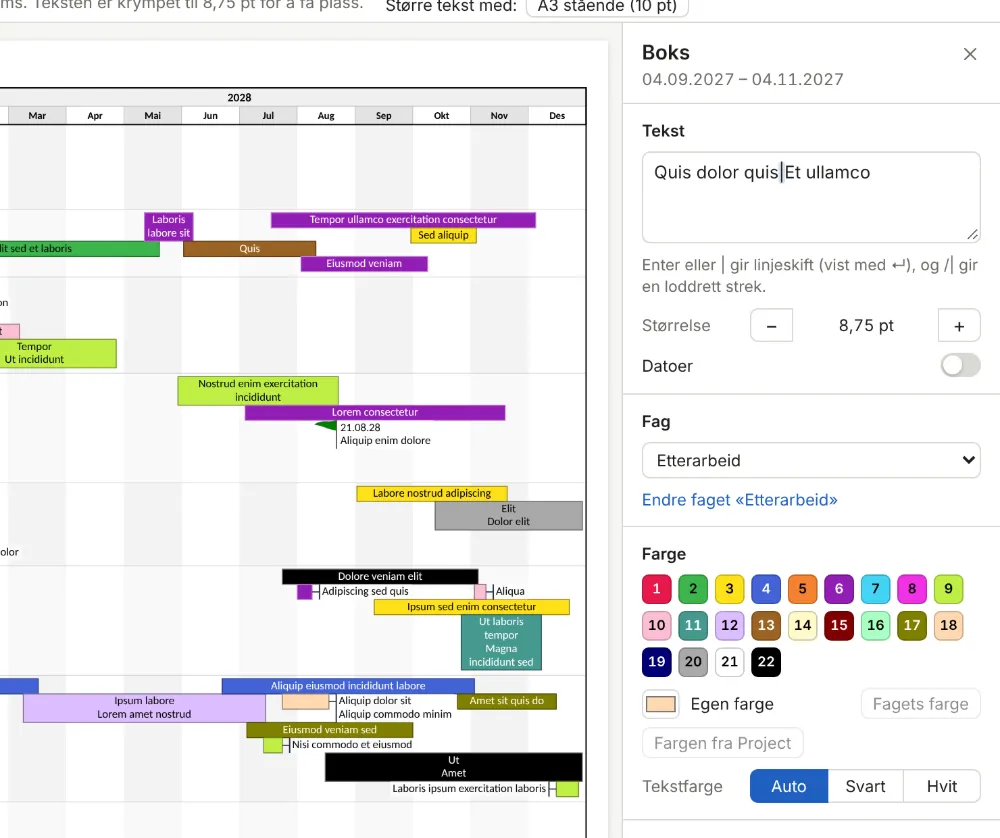
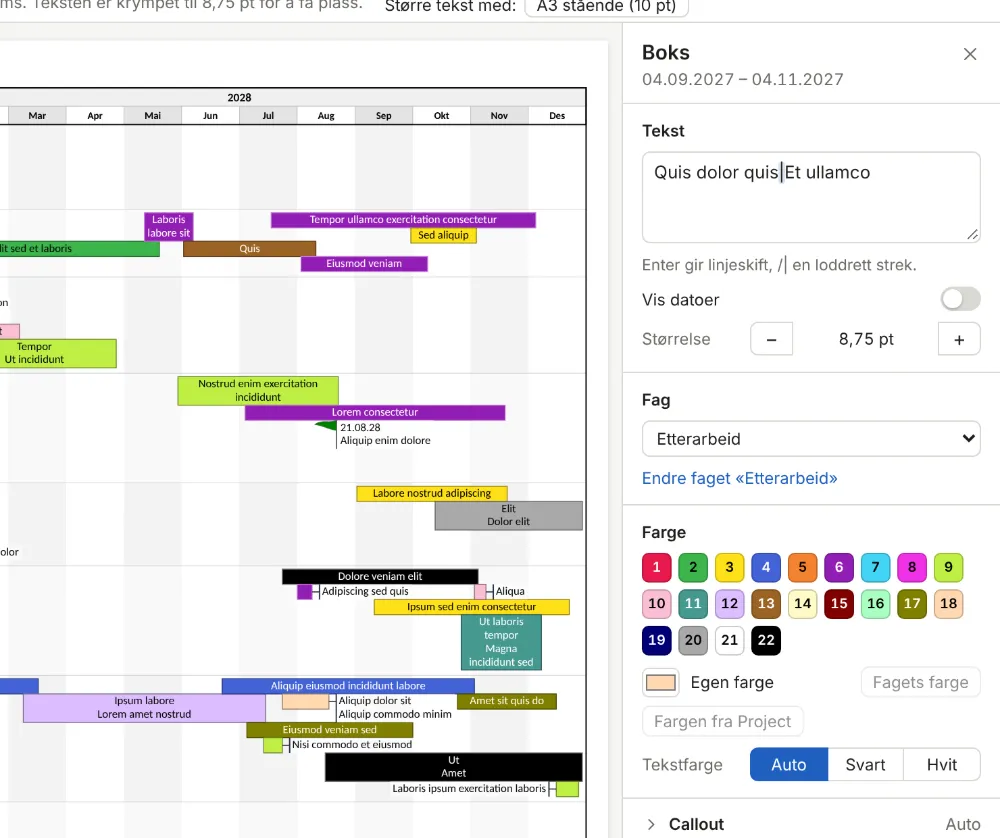
Egenskapspanelet: foldbare deler med oppsummering, «Vis datoer» og faste knapper for kritisk linje (0.54.0)
Tekst, Fag og Farge står alltid åpne. Callout, Form, Merking og Plassering
foldes til én linje med en kort oppsummering til høyre, uthevet når noe
avviker fra standard. Flere deler kan være åpne, og de står åpne når en
annen boks velges. Flervalg har samme rekkefølge som én boks.

«Datoer» heter «Vis datoer» og står over Størrelse. Kritisk linje vises
alltid som knapper for linje 1–3 under «Med i kritisk linje».

Claude-Session: https://claude.ai/code/session_01B5pQjgJf3H2EnZ7qEUdL9U

diff --git a/src/editor.ts b/src/editor.ts
@@ -28,6 +28,8 @@ import { canBeTransparent } from './layout/transparency';
 import { inLine, styleOf } from './criticallines';
 import { datesMenuItem, datesRows } from './boxdatesui';
 import { setBoxDates } from './layout/boxdates';
+import { foldSection, type Fold } from './panelfold';
+import { calloutFold, formFold, placeFold } from './panelsummary';
 import { customMarkSection, markScaleRow, marksMenuItems, marksSection, pickMarkImage, removeCustomMark, setMarks, type CustomActions } from './marksui';
 import { MARK_KEYS, MARK_NAMES, markName, markOfKey, type MarkKind } from './layout/marks';
 import { dissolveLaneGroup, findGroup, groupLanes, groupOfLane, groupTargets, growLaneGroup, removeFromLaneGroup, settleLaneGroups } from './lanegroup';
@@ -631,8 +633,13 @@ export function createEditor(host: EditorHost, sheet: HTMLElement, panel: HTMLEl
     h.append(t, close);
     panel.append(h);
   };
-  /** Del av panelet med egen overskrift. */
-  const section = (title: string) => {
+  /** Del av panelet med egen overskrift. Med fold kan delen foldes sammen til én linje med oppsummering. */
+  const section = (title: string, fold?: Fold) => {
+    if (fold) {
+      const { root, body } = foldSection(title, fold);
+      panel.append(root);
+      return body;
+    }
     const s = el('section', { class: 'psec', 'aria-label': title });
     s.append(el('h3', {}, title));
     panel.append(s);
@@ -1252,6 +1259,8 @@ export function createEditor(host: EditorHost, sheet: HTMLElement, panel: HTMLEl
       }));
     const same = <T,>(get: (x: Box) => T) => (plain.length && plain.every((x) => get(x) === get(plain[0])) ? get(plain[0]) : null);
 
+    if (plain.length) section('Tekst').append(...datesRows(markKit, plan, plain, (v) => commit((pl) => setBoxDates(pl, plain.map((x) => x.id), v))));
+
     if (plain.length) {
       const sf = section('Fag');
       const ids = plain.map((x) => x.id);
@@ -1286,9 +1295,7 @@ export function createEditor(host: EditorHost, sheet: HTMLElement, panel: HTMLEl
         })),
     );
 
-    if (plain.length) section('Tekst').append(...datesRows(markKit, plan, plain, (v) => commit((pl) => setBoxDates(pl, plain.map((x) => x.id), v))));
-
-    const so = section('Callout');
+    const so = section('Callout', calloutFold(plain));
     so.append(
       segmented('Vis', same((x) => x.callout ?? 'auto') ?? '', [['auto', 'Auto'], ['on', 'På'], ['off', 'Av']], (v) =>
         all((x) => {
@@ -1309,7 +1316,7 @@ export function createEditor(host: EditorHost, sheet: HTMLElement, panel: HTMLEl
 
     if (plain.length) marksSection(markKit, plan, plain, (k, v) => commit((pl) => setMarks(pl, plain.map((x) => x.id), k, v)), setMarkScale, customActions(plain.map((x) => x.id)));
 
-    const sp = section('Plassering');
+    const sp = section('Plassering', placeFold(boxes, true));
     sp.append(critical.boxLineRow(plan, boxes));
     if (plain.some((x) => x.textScale)) sp.append(lockedRow('Noen har egen tekststørrelse', 'Som planen', 'Samme tekststørrelse som resten av planen', () => all((x) => delete x.textScale)));
     if (plain.some((x) => x.height)) sp.append(lockedRow('Noen har fast høyde', 'Standard høyde', 'Så høye som teksten krever', () => all((x) => delete x.height)));
@@ -1535,10 +1542,10 @@ export function createEditor(host: EditorHost, sheet: HTMLElement, panel: HTMLEl
           x.text = v;
         }, { typing: true, rebuild: false }), true,
       ),
-      el('p', { class: 'hint' }, 'Enter eller | gir linjeskift (vist med ↵), og /| gir en loddrett strek.'),
+      el('p', { class: 'hint', title: 'Enter eller | gir linjeskift (vist med ↵), og /| gir en loddrett strek.' }, 'Enter gir linjeskift, /| en loddrett strek.'),
     );
-    if (!ms && layoutNow) st.append(...textSizeRow(b, layoutNow.textSizePt));
     if (!ms) st.append(...datesRows(markKit, plan, [b], (v) => commit((pl) => setBoxDates(pl, [b.id], v))));
+    if (!ms && layoutNow) st.append(...textSizeRow(b, layoutNow.textSizePt));
     if (ms) {
       // Utseende fra appen går foran det som er valgt i Project
       const base = b.milestone ?? { symbol: 'diamond', color: 'blue', showDate: true, verticalLine: false };
@@ -1610,7 +1617,7 @@ export function createEditor(host: EditorHost, sheet: HTMLElement, panel: HTMLEl
       // Bokser som ligger bak de andre kan gjøres gjennomsiktige, så linjene bak synes
       if (canBeTransparent(b)) sc.lastElementChild!.before(transparencyRow(transparencyKit, b));
 
-      const so = section('Callout');
+      const so = section('Callout', calloutFold([b]));
       so.append(
         segmented('Vis', b.callout ?? 'auto', [['auto', 'Auto'], ['on', 'På'], ['off', 'Av']], (v) =>
           change((x) => {
@@ -1633,7 +1640,7 @@ export function createEditor(host: EditorHost, sheet: HTMLElement, panel: HTMLEl
       );
       if (b.rotation !== 0) so.append(el('p', { class: 'hint' }, 'Rotert tekst får ikke callout.'));
 
-      const sf = section('Form');
+      const sf = section('Form', formFold(b));
       sf.append(
         segmented('Type', b.spanTo !== undefined ? 'span' : b.header ? 'header' : 'normal', [['normal', 'Vanlig'], ['header', 'Overskrift'], ['span', 'Multi Lane']], (v) => {
           if (v === 'span') return setSpan(b.id, true);
@@ -1688,7 +1695,8 @@ export function createEditor(host: EditorHost, sheet: HTMLElement, panel: HTMLEl
 
     if (!ms) marksSection(markKit, plan, [b], (k, v) => commit((pl) => setMarks(pl, [b.id], k, v)), setMarkScale, customActions([b.id]));
 
-    const sp = section('Plassering');
+    // Milepælpanelet er kort nok til at Plassering kan stå åpen
+    const sp = section('Plassering', ms ? undefined : placeFold([b]));
     sp.append(critical.boxLineRow(plan, [b]));
     if (!ms && b.height) sp.append(lockedRow('Fast høyde', 'Standard høyde', 'Så høy som teksten krever', () => change((x) => delete x.height)));
     if (pinned(b)) sp.append(lockedRow('Fast plass i lanen', 'Løsne', 'La appen velge plassen i lanen igjen', () => change(unpinBox)));

diff --git a/src/panelsummary.ts b/src/panelsummary.ts
@@ -1,0 +1,48 @@
+// Korte oppsummeringer for delene av boks-panelet som er foldet sammen.
+import type { Box } from './format/types';
+import { linesOf } from './criticallines';
+import { pinned } from './editmodel';
+import { joinSummary, type Fold } from './panelfold';
+
+const fmtCm = (v: number) => `${v.toLocaleString('nb-NO', { maximumFractionDigits: 1 })} cm`;
+/** Verdien når alle boksene har den samme, ellers null. */
+const same = <T>(boxes: readonly Box[], get: (b: Box) => T): T | null =>
+  boxes.length && boxes.every((b) => get(b) === get(boxes[0])) ? get(boxes[0]) : null;
+
+/** Callout: Auto, På eller Av, med side og bredde når de er valgt. */
+export function calloutFold(boxes: readonly Box[]): Fold {
+  const changed = boxes.some((b) => b.callout !== undefined || b.calloutSide !== undefined || b.calloutWidthCm !== undefined);
+  if (boxes.length === 1 && boxes[0].rotation !== 0) return { summary: 'Ingen, teksten er rotert', changed };
+  const vis = same(boxes, (b) => b.callout ?? 'auto');
+  const side = same(boxes, (b) => b.calloutSide ?? 'auto');
+  const width = same(boxes, (b) => b.calloutWidthCm);
+  if (vis === null || side === null || (width === null && boxes.some((b) => b.calloutWidthCm !== undefined))) return { summary: 'Ulike', changed };
+  return {
+    summary: joinSummary([
+      { auto: 'Auto', on: 'På', off: 'Av' }[vis],
+      side !== 'auto' && (side === 'left' ? 'venstre' : 'høyre'),
+      width !== undefined && width !== null && fmtCm(width),
+    ]),
+    changed,
+  };
+}
+
+/** Form: vanlig, overskrift eller Multi Lane, og rotasjonen når teksten er rotert. */
+export function formFold(b: Box): Fold {
+  const type = b.spanTo !== undefined ? 'Multi Lane' : b.header ? 'Overskrift' : 'Vanlig';
+  const rot = b.rotation === 90 ? '90°' : b.rotation === -90 ? '−90°' : '';
+  return { summary: joinSummary([type, rot && `rotert ${rot}`]), changed: type !== 'Vanlig' || !!rot };
+}
+
+/** Plassering: kritisk linje, fast høyde, egen tekststørrelse og fast plass, ellers automatisk. */
+export function placeFold(boxes: readonly Box[], withTextSize = false): Fold {
+  const lines = [...new Set(boxes.flatMap((b) => linesOf(b)))].sort();
+  const parts = [
+    lines.length > 0 && (lines.length === 1 && lines[0] === 1 ? 'Kritisk linje' : `Kritisk linje ${lines.join(', ')}`),
+    withTextSize && boxes.some((b) => b.textScale) && 'Egen tekststørrelse',
+    boxes.some((b) => !b.resolved?.isMilestone && b.height) && 'Fast høyde',
+    boxes.some(pinned) && 'Fast plass',
+  ];
+  const s = joinSummary(parts);
+  return { summary: s || 'Automatisk', changed: !!s };
+}

diff --git a/src/marksui.ts b/src/marksui.ts
@@ -4,6 +4,7 @@ import type { Box, PlanFile } from './format/types';
 import { findBox } from './editmodel';
 import { MARK_KINDS, MARK_NAMES, MARK_SCALES, markName, markScaleOf, markShapes, type MarkKind } from './layout/marks';
 import type { CtxItem, IconName } from './ctxmenu';
+import { joinSummary, type Fold } from './panelfold';
 
 const HINTS: Record<MarkKind, string> = {
   loud: 'Høyttaler på gul bunn på høyre kant av boksen',
@@ -82,7 +83,7 @@ export function setMarks(plan: PlanFile, ids: readonly string[], kind: MarkKind,
 export const allMarked = (boxes: readonly Box[], kind: MarkKind) => boxes.length > 0 && boxes.every((b) => !!b[kind]);
 
 interface Kit {
-  section(title: string): HTMLElement;
+  section(title: string, fold?: Fold): HTMLElement;
   switchRow(label: string, on: boolean, onChange: (v: boolean) => void, title?: string): HTMLElement;
   el(tag: string, attrs?: Record<string, string>, text?: string): HTMLElement;
 }
@@ -143,8 +144,11 @@ export function markScaleRow(kit: Kit, plan: PlanFile, set: (v: number | undefin
 
 /** «Merking» i panelet for én eller flere bokser. */
 export function marksSection(kit: Kit, plan: PlanFile, boxes: readonly Box[], set: (kind: MarkKind, on: boolean) => void, setScale: (v: number | undefined) => void, custom: CustomActions): void {
-  const s = kit.section('Merking');
   const cm = plan.plan.layout.customMark;
+  // Lukket viser delen merkene alle boksene har, eller at bare noen er merket
+  const on = kindsIn(plan).filter((k) => allMarked(boxes, k)).map((k) => markName(k, cm?.name));
+  const some = boxes.some((b) => b.loud || b.night || (cm && b.custom));
+  const s = kit.section('Merking', { summary: on.length ? joinSummary(on) : some ? 'Noen er merket' : 'Ingen', changed: some });
   for (const k of kindsIn(plan)) {
     const row = kit.switchRow(markName(k, cm?.name), allMarked(boxes, k), (v) => set(k, v), HINTS[k]);
     row.querySelector('span')?.prepend(markIcon(k, plan));

diff --git a/src/panelfold.ts b/src/panelfold.ts
@@ -1,0 +1,44 @@
+// Deler av egenskapspanelet som kan foldes sammen. Lukket står overskriften og en kort oppsummering
+// på én linje, så panelet får plass uten rulling og det som er endret, synes uten å åpne delen.
+import { icon } from './ctxmenu';
+
+/** Oppsummeringen av en lukket del. changed: noe avviker fra standard, og linjen fremheves. */
+export interface Fold {
+  summary: string;
+  changed?: boolean;
+}
+
+/**
+ * Delene som er åpne, etter navn. Valget huskes mens appen er åpen, så en del står åpen når panelet
+ * tegnes på nytt eller en annen boks velges. Flere deler kan være åpne samtidig.
+ */
+const openParts = new Set<string>();
+
+/** Del som kan foldes. Gir elementet som innholdet legges i. */
+export function foldSection(title: string, fold: Fold): { root: HTMLElement; body: HTMLElement } {
+  const d = document.createElement('details');
+  d.className = 'psec pgroup pfold';
+  d.open = openParts.has(title);
+  const sum = document.createElement('summary');
+  const head = document.createElement('span');
+  head.className = 'pg-head';
+  const h = document.createElement('h3');
+  h.textContent = title;
+  const s = document.createElement('span');
+  s.className = fold.changed ? 'pg-sum changed' : 'pg-sum';
+  s.textContent = fold.summary;
+  if (fold.changed) s.title = 'Avviker fra standard';
+  head.append(h, s);
+  sum.append(icon('chevron', 'pico pg-chev'), head);
+  const body = document.createElement('div');
+  body.className = 'pg-body';
+  d.append(sum, body);
+  d.addEventListener('toggle', () => {
+    if (d.open) openParts.add(title);
+    else openParts.delete(title);
+  });
+  return { root: d, body };
+}
+
+/** Ordene satt sammen med midtprikk, uten de tomme. */
+export const joinSummary = (parts: (string | false | null | undefined)[]) => parts.filter(Boolean).join(' · ');

diff --git a/src/criticalui.ts b/src/criticalui.ts
@@ -81,14 +81,14 @@ export function createCriticalUi(ed: CriticalUiHost) {
   };
 
   /**
-   * Valget i panelet for valgte bokser. Med bare linje 1 i planen er det en bryter som før;
-   * med flere linjer en knapp per linje.
+   * Valget i panelet for valgte bokser: alltid en knapp per linje, så valget ser likt ut
+   * enten planen har én eller flere linjer. Navnet står over knappene.
    */
   const boxLineRow = (plan: PlanFile, boxes: Box[]) => {
     const all = (n: number) => boxes.every((x) => inLine(x, n));
-    if (!usedLines(plan).some((n) => n > 1))
-      return switchRow('Med i kritisk linje', all(1), (v) => setCritical(boxes.map((x) => x.id), v, 1), 'Den kritiske linjen trekkes gjennom de merkede boksene');
-    return lineButtons(plan, 'Kritisk linje', all, (n) => setCritical(boxes.map((x) => x.id), !all(n), n), (n) => `Ta med i eller ut av kritisk linje ${n}`);
+    const row = lineButtons(plan, 'Med i kritisk linje', all, (n) => setCritical(boxes.map((x) => x.id), !all(n), n), (n) => `Ta med i eller ut av kritisk linje ${n}`);
+    row.classList.replace('prop-inline', 'prop');
+    return row;
   };
 
   const CRITICAL_COLORS: [string, string][] = [['#E00000', 'Rød'], ['#FF6600', 'Oransje'], ['#C000C0', 'Lilla'], ['#0050D0', 'Blå'], ['#000000', 'Svart']];

diff --git a/src/boxdatesui.ts b/src/boxdatesui.ts
@@ -18,7 +18,7 @@ interface Kit {
 export function datesRows(kit: Kit, plan: PlanFile, boxes: readonly Box[], set: (on: boolean) => void): HTMLElement[] {
   const plain = boxes.filter((b) => !b.resolved?.isMilestone);
   if (!plain.length) return [];
-  const rows = [kit.switchRow('Datoer', allDated(plan, plain), set, HINT)];
+  const rows = [kit.switchRow('Vis datoer', allDated(plan, plain), set, HINT)];
   const planOn = !!plan.plan.layout.showDates;
   const own = plain.filter((b) => b.showDates !== undefined && b.showDates !== planOn).length;
   if (own) {
@@ -36,5 +36,5 @@ export function datesRows(kit: Kit, plan: PlanFile, boxes: readonly Box[], set: 
 /** Av/på i høyreklikkmenyen. */
 export function datesMenuItem(plan: PlanFile, boxes: readonly Box[], set: (on: boolean) => void): CtxItem {
   const on = allDated(plan, boxes);
-  return { label: 'Datoer', icon: 'calendar', checked: on, hint: HINT, onSelect: () => set(!on) };
+  return { label: 'Vis datoer', icon: 'calendar', checked: on, hint: HINT, onSelect: () => set(!on) };
 }

diff --git a/src/style.css b/src/style.css
@@ -386,6 +386,12 @@ details summary { cursor: pointer; font-size: 13px; }
 .pgroup[open] > summary .pg-sum { display: none; }
 .pg-body { display: flex; flex-direction: column; gap: 8px; padding: 2px 14px 12px; }
 @media (prefers-reduced-motion: reduce) { .pg-chev { transition: none; } }
+/* Del av boks-panelet som foldes: overskrift til venstre og oppsummering til høyre på samme linje */
+.pfold > summary { align-items: center; padding: 11px 14px; }
+.pfold .pg-head { flex: 1; flex-direction: row; align-items: baseline; justify-content: space-between; gap: 12px; }
+.pfold h3 { flex: none; }
+.pfold .pg-sum { font-size: 12px; text-align: right; min-width: 0; }
+.pfold .pg-sum.changed { color: var(--text); font-weight: 600; }
 .prop { display: flex; flex-direction: column; gap: 4px; }
 .prop-label { font-size: 12px; color: var(--muted); }
 .prop-inline { display: grid; grid-template-columns: 72px minmax(0, 1fr); align-items: center; gap: 8px; }

diff --git a/src/help/content.ts b/src/help/content.ts
@@ -230,7 +230,7 @@ export const TOPICS: HelpTopic[] = [
   },
   {
     id: 'datoer', group: 'Bokser', title: 'Datoer på boksene',
-    text: `Start- og sluttdato slås på for alle under ${ui('Innstillinger')} › ${ui('Vis på arket')}, der du også velger format. Høyreklikk en boks og velg ${ui('Datoer')} for å slå dem av eller på bare for den.`,
+    text: `Start- og sluttdato slås på for alle under ${ui('Innstillinger')} › ${ui('Vis på arket')}, der du også velger format. Høyreklikk en boks og velg ${ui('Vis datoer')}, eller bruk bryteren i panelet, for å slå dem av eller på bare for den.`,
     when: `Datoer på alle bokser gjør arket fullt. Ofte er det nok å vise dem på milepæler og de viktigste boksene, og slå dem på per boks.`,
     words: 'dato start slutt format vis', see: ['boksmeny', 'innstillinger'],
   },
